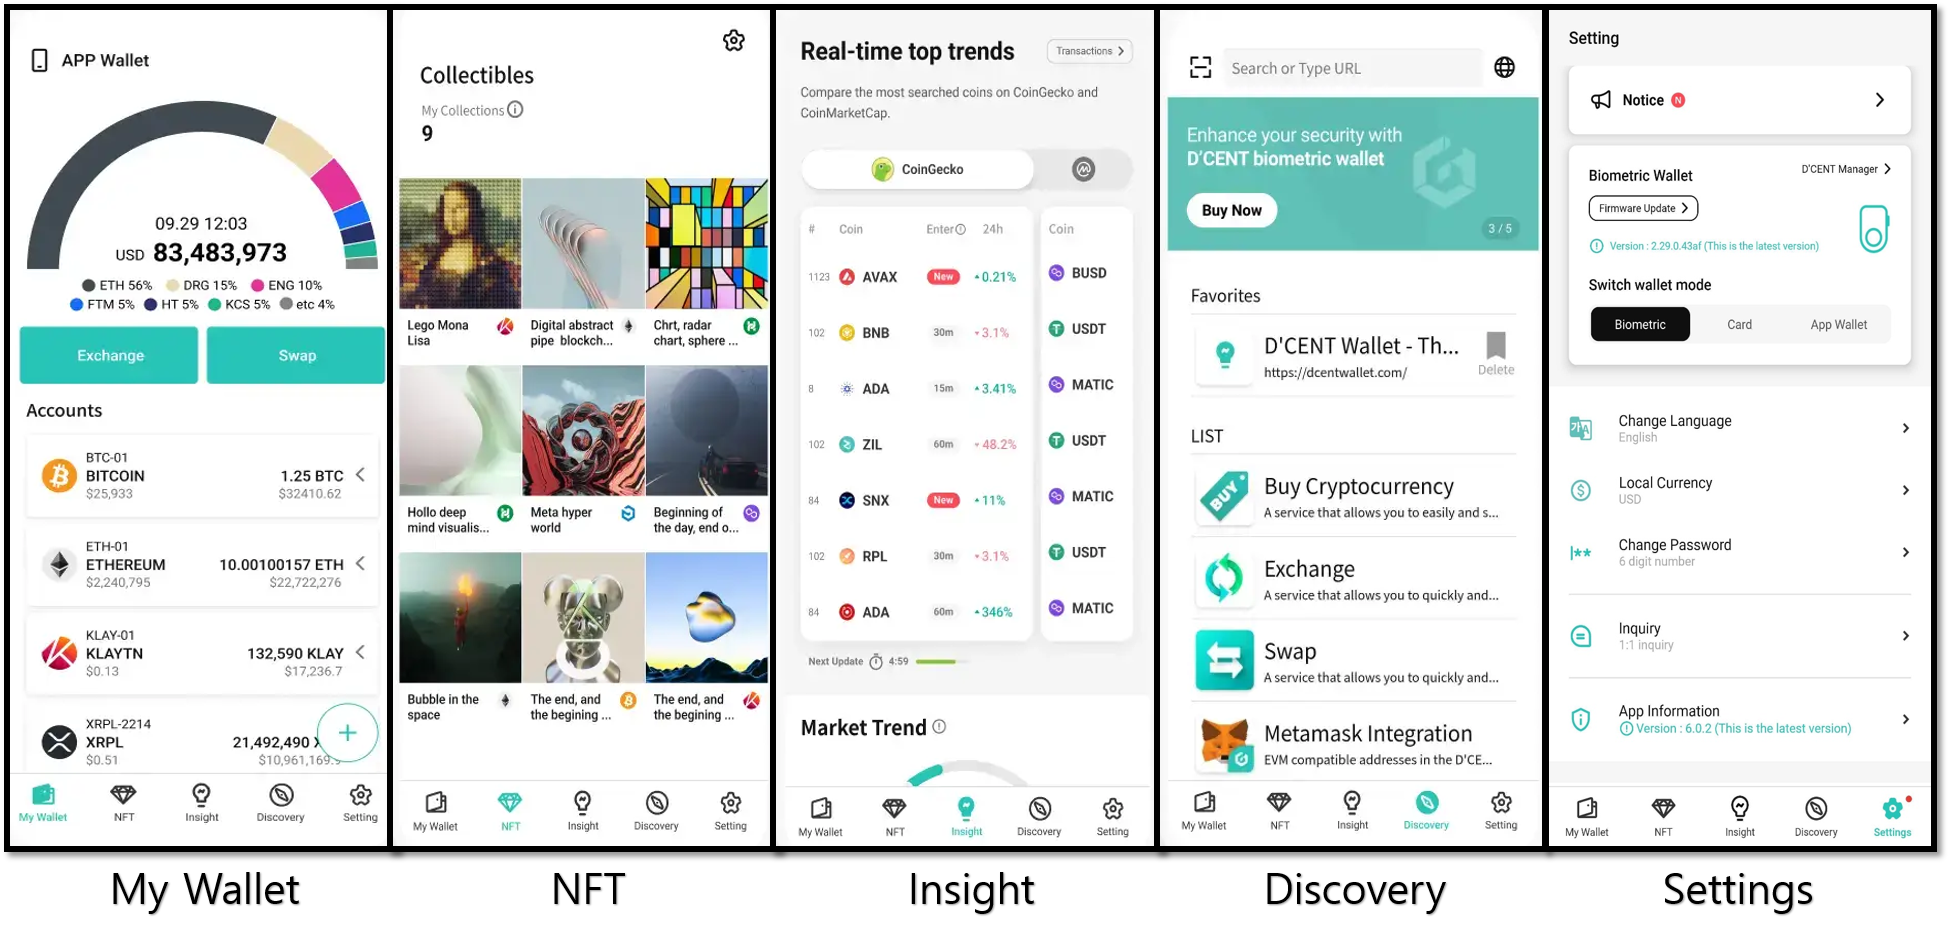
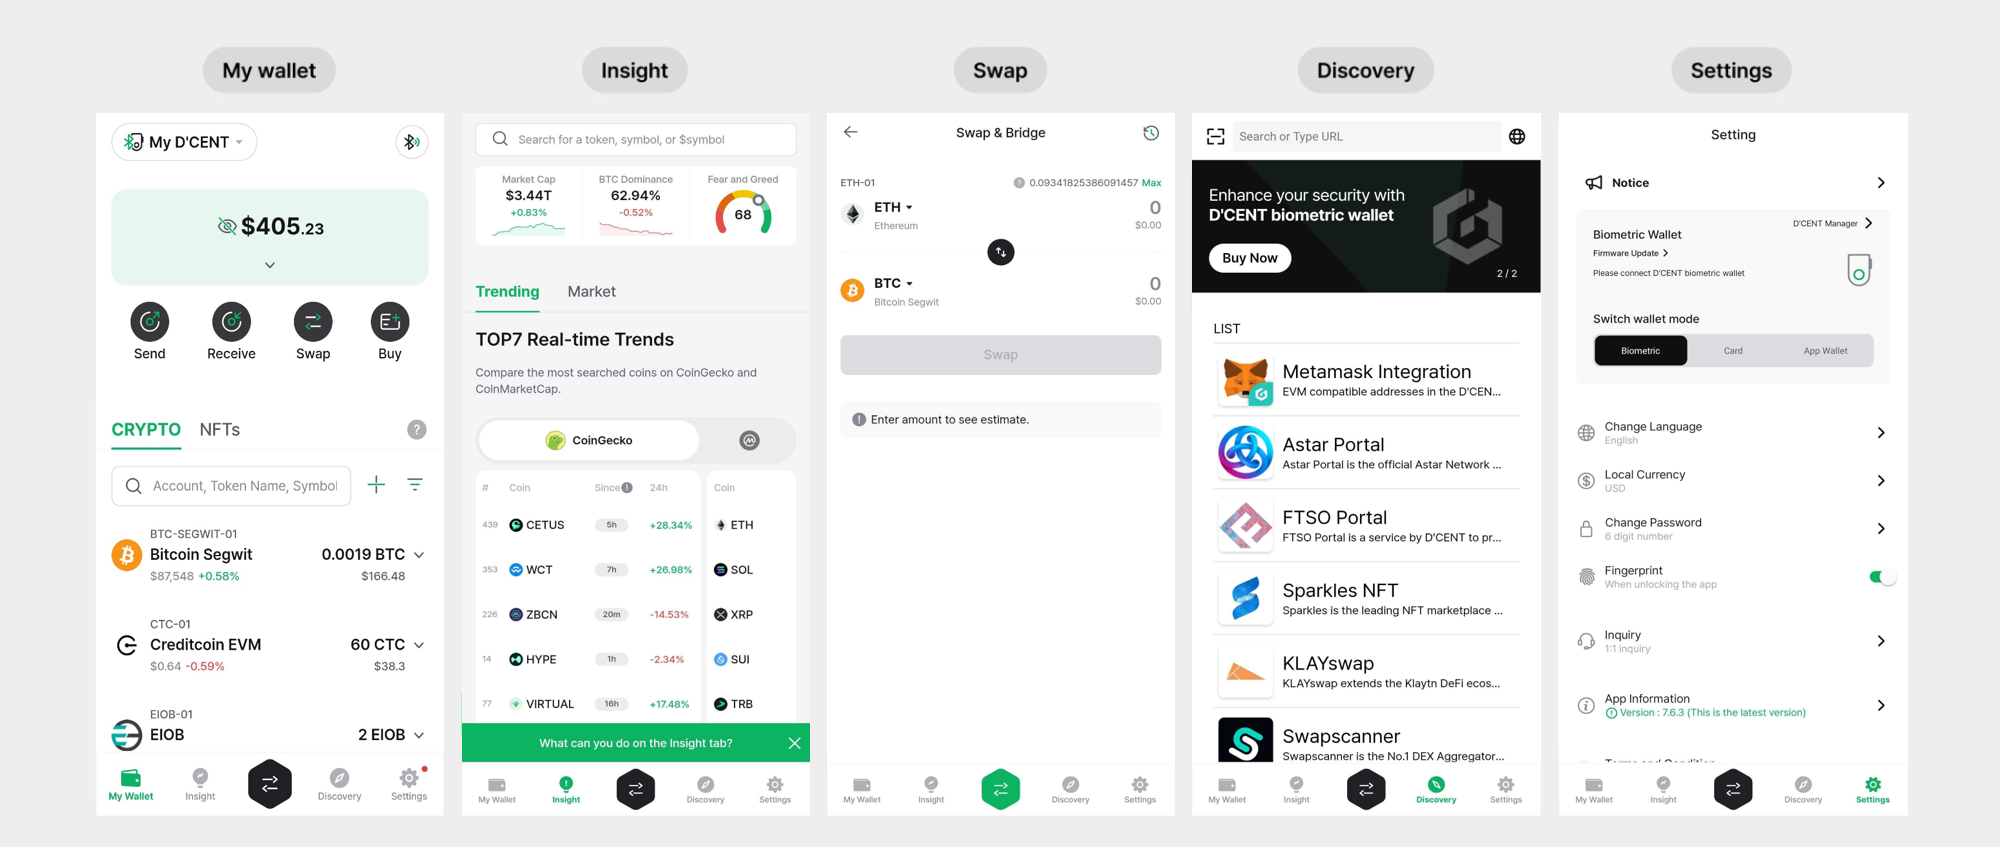
GITBOOK-689: change request with no subject merged in GitBook

diff --git a/mobile-app/intro.md b/mobile-app/intro.md
@@ -14,7 +14,7 @@ Search for the keyword "**D'CENT Wallet**".
 
 To install the mobile app for Android, please click [here](https://play.google.com/store/apps/details?id=com.kr.iotrust.dcent.wallet).
 
-<div align="left"><figure><img src="../.gitbook/assets/2 (18).jpg" alt="" width="563"><figcaption></figcaption></figure></div>
+<div align="left"><figure><img src="../.gitbook/assets/GooglePlay(eng).png" alt="" width="375"><figcaption></figcaption></figure></div>
 
 ### For iOS
 
@@ -24,11 +24,11 @@ Search for the keyword "**D'CENT Wallet**".
 
 To download the D'CENT mobile app for iOS, please click [here](https://apps.apple.com/us/app/dcent-crypto-wallet/id1447206611).
 
-<div align="left"><figure><img src="../.gitbook/assets/File (2) 2.png" alt="" width="375"><figcaption></figcaption></figure></div>
+<div align="left"><figure><img src="../.gitbook/assets/Appstore(eng).png" alt="" width="375"><figcaption></figcaption></figure></div>
 
 ## Main features
 
-<div align="left"><figure><img src="../.gitbook/assets/1 (15).jpg" alt=""><figcaption></figcaption></figure></div>
+<div align="left"><figure><img src="../.gitbook/assets/Moblie app-eng.png" alt=""><figcaption></figcaption></figure></div>
 
 **My Wallet** : You can view your existing coin accounts or add new ones. You can send and receive coins, check your transaction history, and manage your assets with ease. Additionally, by tapping the **"NFTs"** tab, you can view all NFT assets stored in your wallet at a glance.
 
